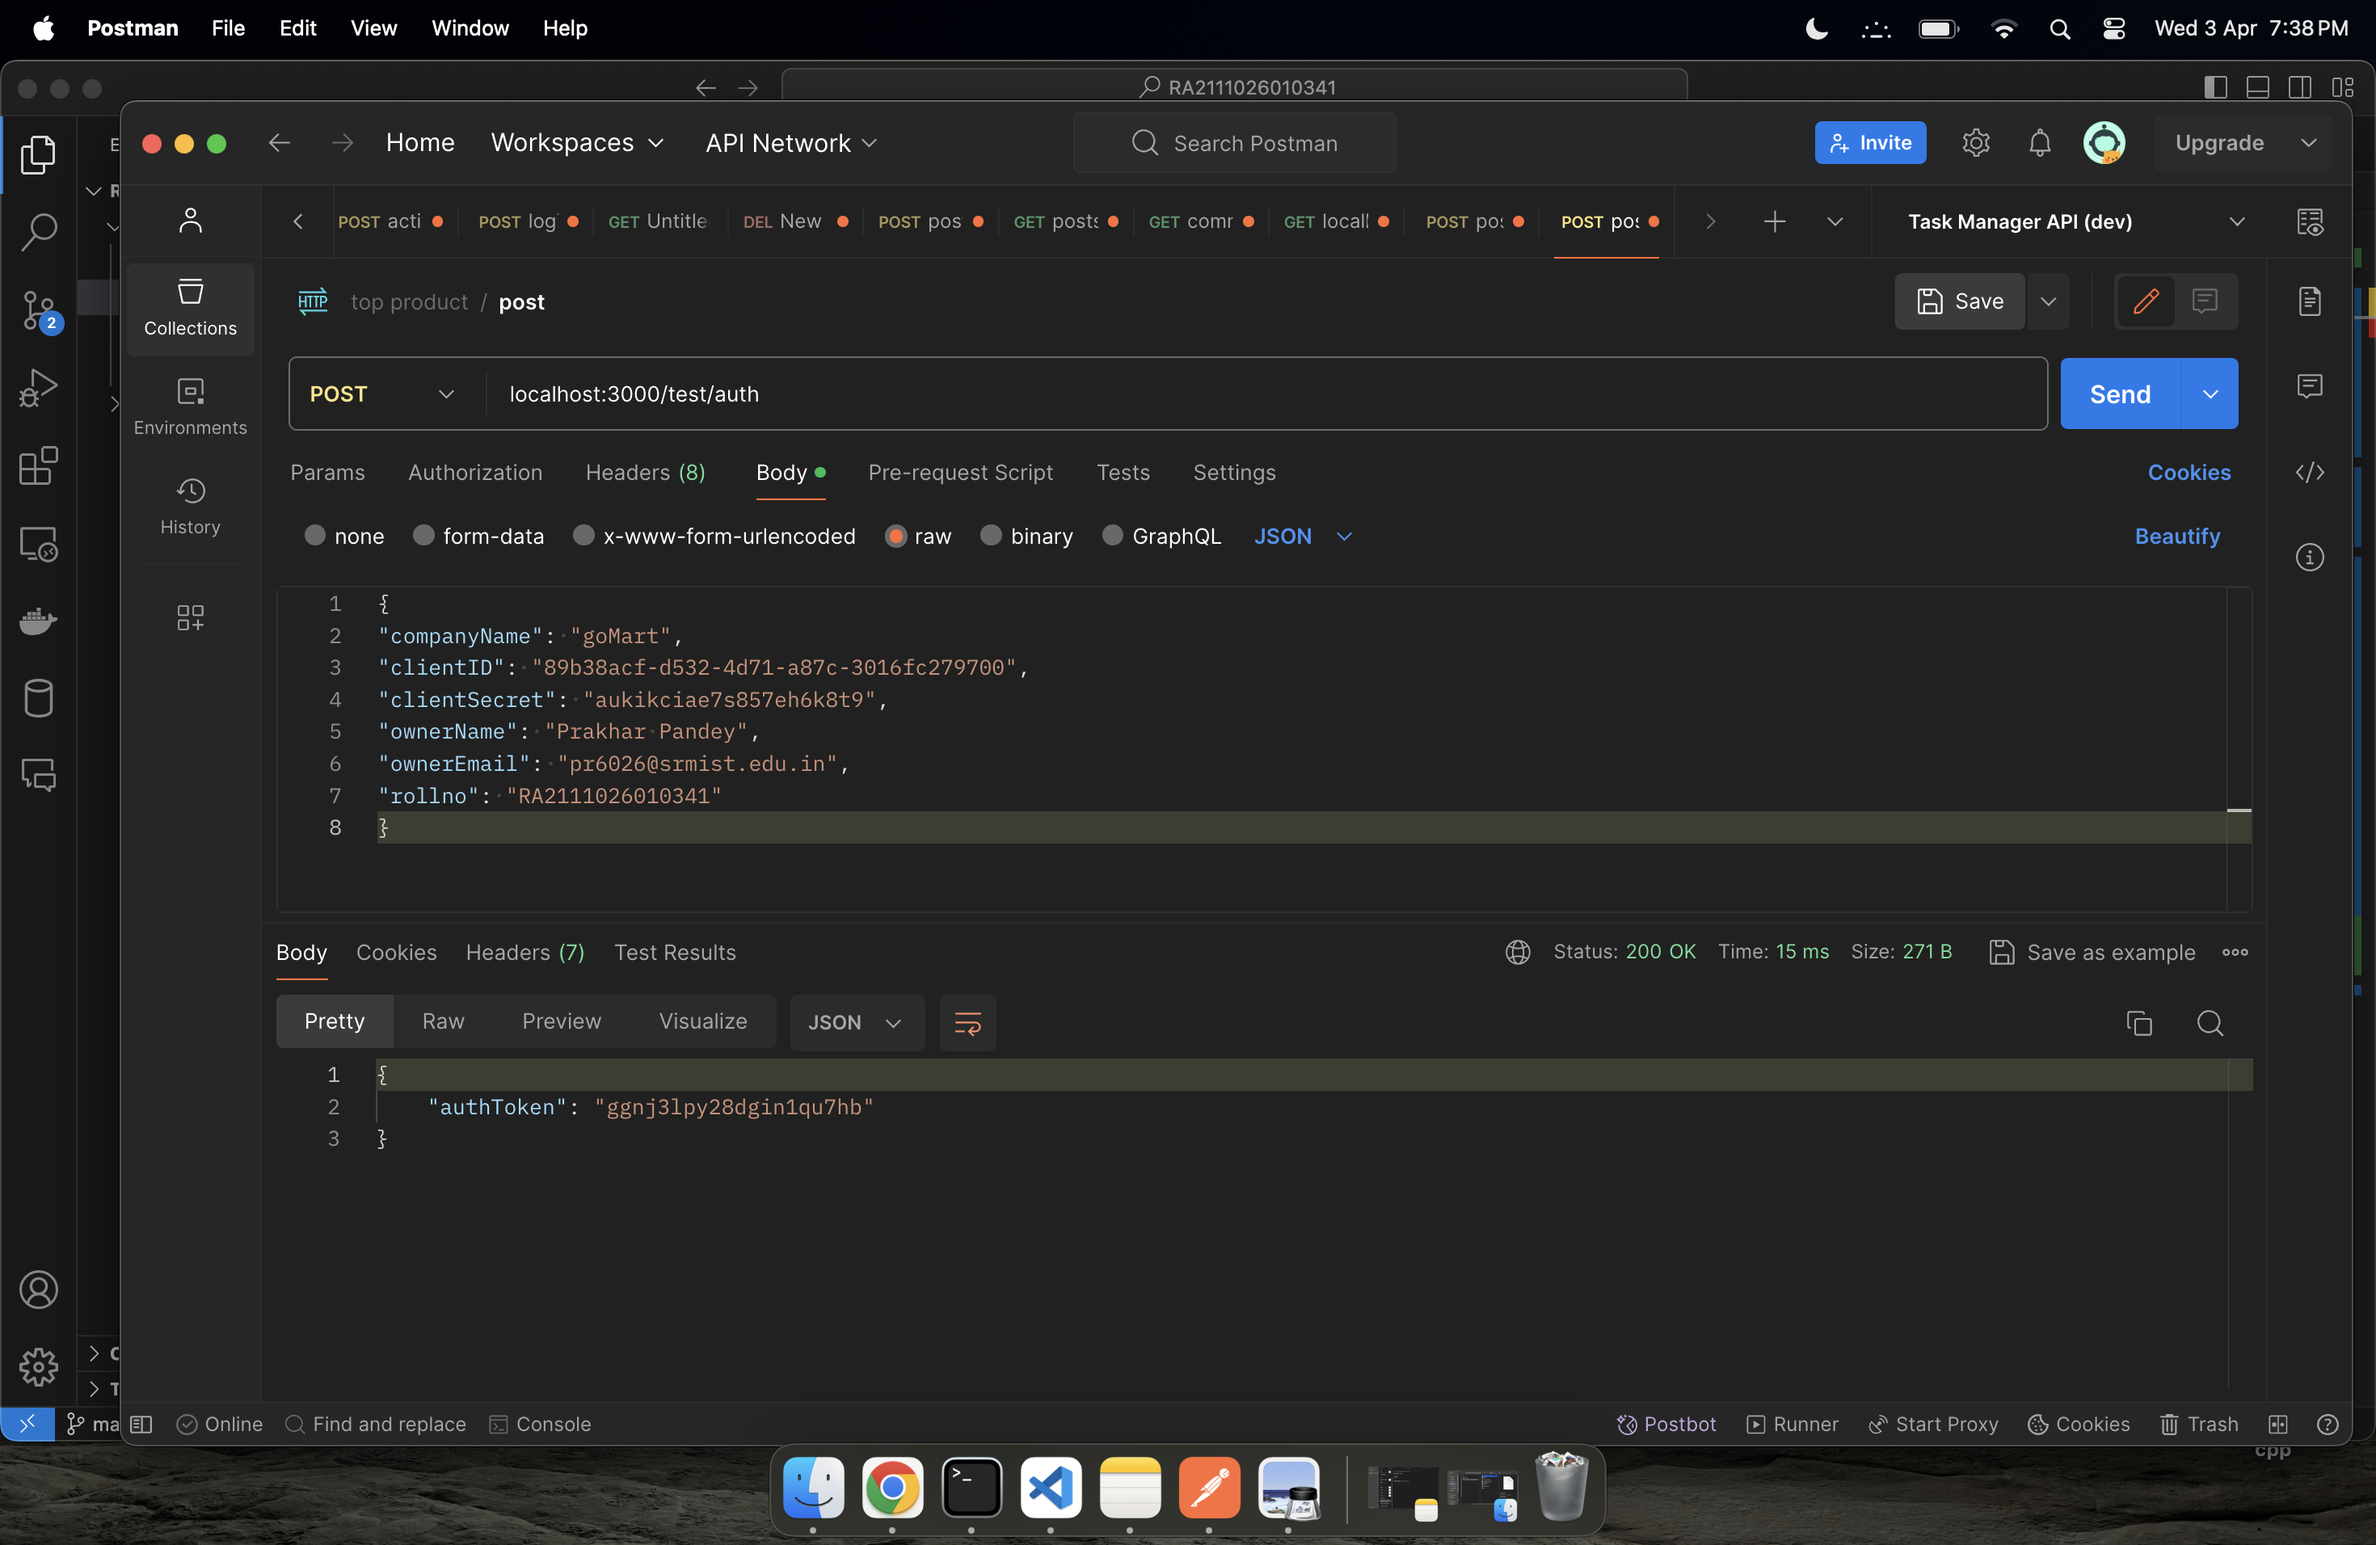
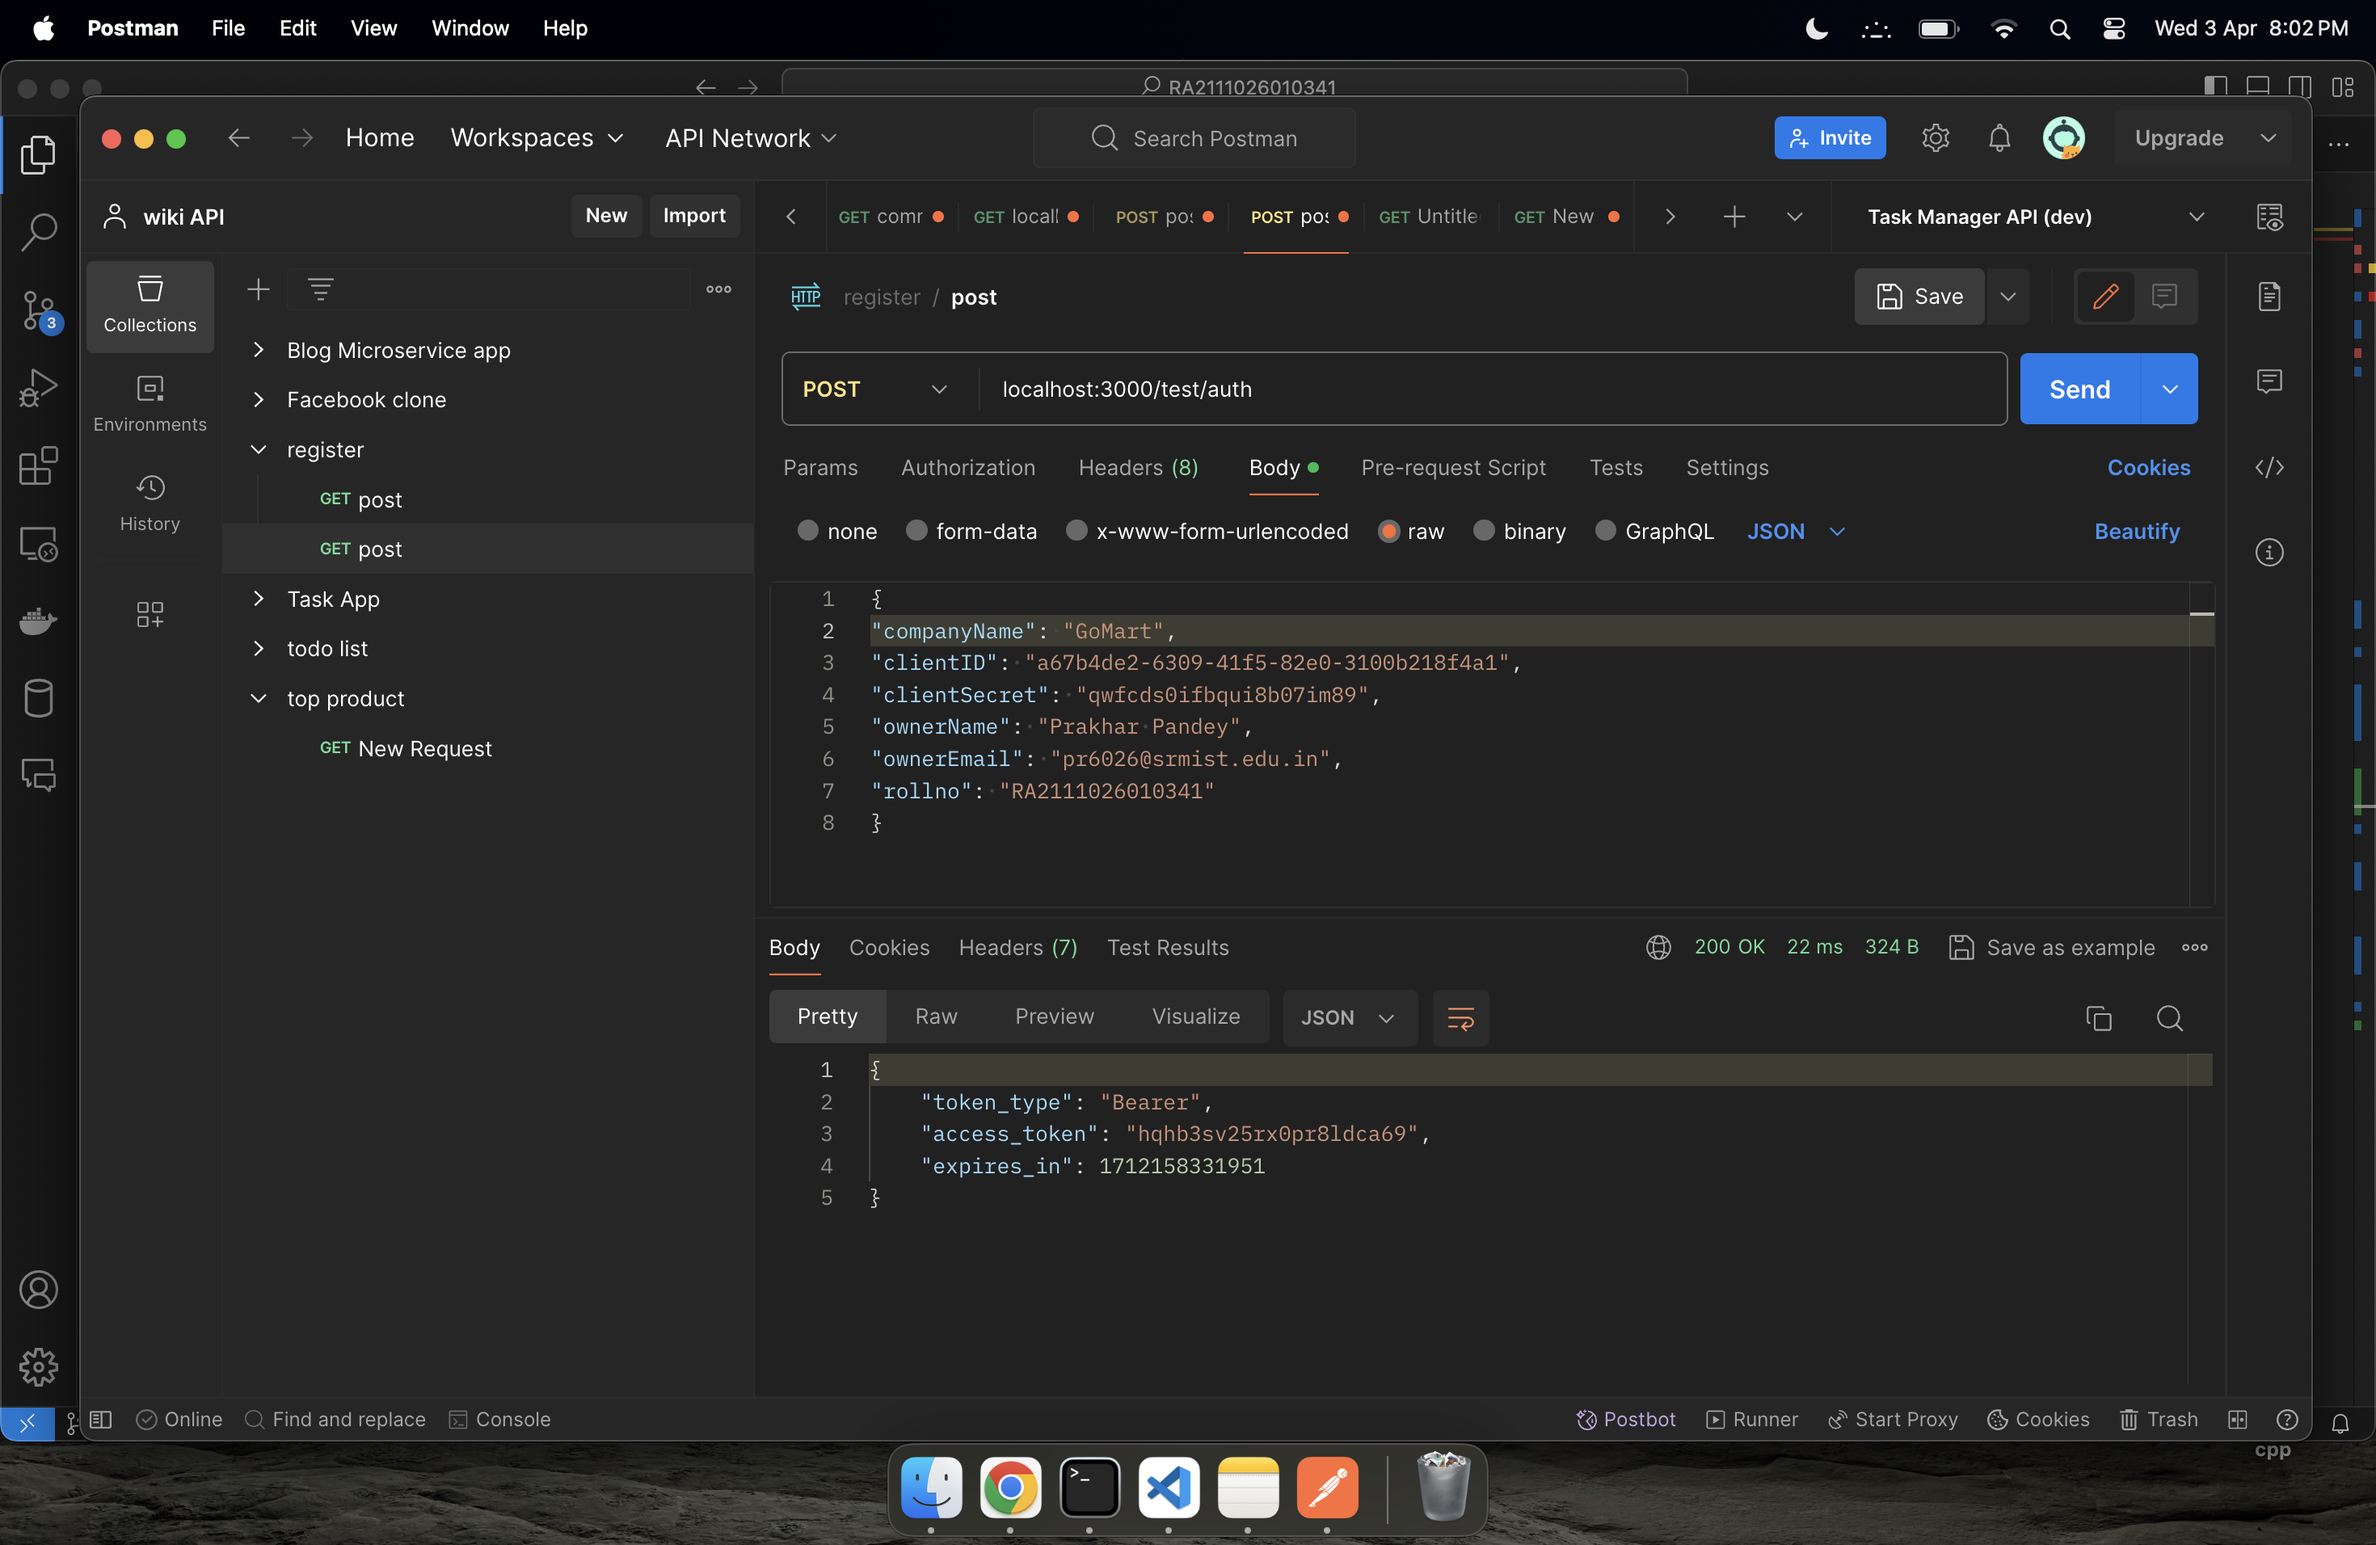
added autghentication in problem 1

diff --git a/top_product_http_microservice/api.js b/top_product_http_microservice/api.js
@@ -1,102 +1,63 @@
 const express = require('express');
-const axios = require('axios'); // For making HTTP requests
+const axios = require('axios');
 
 const app = express();
-const PORT = process.env.PORT || 3000; // Use environment variable for port
+const PORT = process.env.PORT || 3000;
 
-// In-memory cache for product data (replace with a proper caching solution)
-const productCache = {};
 
-async function getProductsFromCompany(company, category, params) {
-  const url = `http://20.244.56.144/test/companies/<span class="math-inline">\{company\}/categories/</span>{category}/products`;
-  const response = await axios.get(url, { params });
+app.get('/companies/:companyname/categories/:categoryname/products', async (req, res) => {
+  try {
+    const { companyname, categoryname } = req.params;
+    const { top, page, sort } = req.query;
+
+
+    if (!companyname || !categoryname) {
+      return res.status(400).json({ error: 'Company name and category name are required.' });
+    }
+
+    let queryParams = {
+      top,
+      page,
+      sort
+    };
+
+    Object.keys(queryParams).forEach(key => queryParams[key] === undefined && delete queryParams[key]);
+
+
+    const products = await getTopProducts(companyname, categoryname, queryParams);
+
+    res.status(200).json(products);
+  } catch (error) {
+    console.error('Error fetching top products:', error);
+    res.status(500).json({ error: 'Failed to fetch top products.' });
+  }
+});
+
+app.get('/companies/:companyname/categories/:categoryname/products/:productid', async (req, res) => {
+  try {
+    const { companyname, categoryname, productid } = req.params;
+
+
+    const product = await getProductDetails(companyname, categoryname, productid);
+
+    res.status(200).json(product);
+  } catch (error) {
+    console.error('Error fetching product details:', error);
+    res.status(500).json({ error: 'Failed to fetch product details.' });
+  }
+});
+
+
+async function getTopProducts(companyname, categoryname, queryParams) {
+  const response = await axios.get(`http://20.244.56.144/test/companies/${companyname}/categories/${categoryname}/products`, { params: queryParams });
   return response.data;
 }
 
-// Function to merge product data from all companies
-async function getProducts(category, top, page, sort, order, minPrice, maxPrice) {
-  const allProducts = [];
-  const companies = ["AMZ", "FLP", "SNP", "MYN", "AZO"];
-
-  for (const company of companies) {
-    const params = { top, minPrice, maxPrice };
-    if (sort) params.sort = sort;
-    if (order) params.order = order;
-    if (page) params.page = page;
-
-    const cacheKey = `<span class="math-inline">{company}-</span>{category}-${JSON.stringify(params)}`;
-    let products;
-
-    if (productCache[cacheKey]) {
-      products = productCache[cacheKey];
-    } else {
-      products = await getProductsFromCompany(company, category, params);
-      productCache[cacheKey] = products;
-    }
-
-    allProducts.push(...products);
-  }
-
-  return allProducts;
+async function getProductDetails(companyname, categoryname, productid) {
+  const response = await axios.get(`http://20.244.56.144/test/companies/${companyname}/categories/${categoryname}/products/${productid}`);
+  return response.data;
 }
 
-function generateProductId(product) {
-  const { company, category, ...rest } = product;
-  return `<span class="math-inline">\{company\}\-</span>{category}-${JSON.stringify(rest)}`;
-}
-function findProductById(productId) {
-  for (const product of Object.values(productCache)) {
-    if (generateProductId(product) === productId) {
-      return product;
-    }
-  }
-  return null;
-}
-
-app.get('/categories/:categoryname/products', async (req, res) => {
-  const { categoryname } = req.params;
-  const top = parseInt(req.query.top) || 10;
-  const page = parseInt(req.query.page) || 1;
-  const sort = req.query.sort;
-  const order = req.query.order;
-  const minPrice = req.query.minPrice;
-  const maxPrice = req.query.maxPrice;
-
-  try {
-    const products = await getProducts(categoryname, top, page, sort, order, minPrice, maxPrice);
-
-    if (top > 10) {
-      const startIndex = (page - 1) * top;
-      const endIndex = Math.min(startIndex + top, products.length);
-      const paginatedProducts = products.slice(startIndex, endIndex);
-
-      res.json({
-        products: paginatedProducts.map(product => ({ ...product, id: generateProductId(product) })),
-        pagination: {
-          page,
-          totalPages: Math.ceil(products.length / top),
-        },
-      });
-    } else {
-      res.json({ products: products.map(product => ({ ...product, id: generateProductId(product) })) });
-    }
-  } catch (error) {
-    console.error(error);
-    res.status(500).json({ message: 'Internal server error' });
-  }
+app.listen(PORT, () => {
+  console.log(`Server is running on port ${PORT}`);
 });
-
-// API endpoint for specific product details
-app.get('/categories/:categoryname/products/:productid', async (req, res) => {
-  const { categoryname, productid } = req.params;
-
-  const product = findProductById(productid);
-
-  if (product) {
-    res.json({ ...product, id: productid });
-  } else {
-    res.status(404).json({ message: 'Product not found' });
-  }
-});
-
-app.listen(PORT, () => console.log(`Server listening on port ${PORT}`));

diff --git a/register/app.js b/register/app.js
@@ -1,24 +1,21 @@
-const express = require('express');
-const bodyParser = require('body-parser');
+const express = require("express");
+const bodyParser = require("body-parser");
 
 const app = express();
 
-
 app.use(bodyParser.json());
-
 
 const registeredCompanies = {};
 
-app.post('/test/register', (req, res) => {
+app.post("/test/register", (req, res) => {
   const { companyName, ownerName, rollNo, ownerEmail, accessCode } = req.body;
 
-  if (accessCode !== 'bntKpm') {
-    return res.status(403).json({ error: 'Invalid access code' });
+  if (accessCode !== "bntKpm") {
+    return res.status(403).json({ error: "Invalid access code" });
   }
 
-
   if (registeredCompanies[rollNo]) {
-    return res.status(400).json({ error: 'Company already registered' });
+    return res.status(400).json({ error: "Company already registered" });
   }
 
   const clientID = generateUUID();
@@ -43,38 +40,48 @@ app.post('/test/register', (req, res) => {
   });
 });
 
-app.post('/test/auth', (req, res) => {
-
-  const { companyName, clientID, clientSecret, ownerName, ownerEmail, rollno } = req.body;
+app.post("/test/auth", (req, res) => {
+  const { companyName, clientID, clientSecret, ownerName, ownerEmail, rollno } =
+    req.body;
 
   if (!registeredCompanies[rollno]) {
-    return res.status(404).json({ error: 'Company not registered' });
+    return res.status(404).json({ error: "Company not registered" });
   }
 
   const registeredCompany = registeredCompanies[rollno];
-  if (registeredCompany.companyName !== companyName || registeredCompany.clientID !== clientID || registeredCompany.clientSecret !== clientSecret) {
-    return res.status(401).json({ error: 'Unauthorized' });
+  if (
+    registeredCompany.companyName !== companyName ||
+    registeredCompany.clientID !== clientID ||
+    registeredCompany.clientSecret !== clientSecret
+  ) {
+    return res.status(401).json({ error: "Unauthorized" });
   }
 
   const authToken = generateRandomString();
+  const response = {
+    token_type: "Bearer",
+    access_token: authToken,
+    expires_in: Date.now() + 60 * 60 * 1000, // Token expires in 1 hour
+  };
 
-  res.json({
-    authToken,
-  });
+  res.status(200).json(response);
 });
 
 function generateUUID() {
-  return 'xxxxxxxx-xxxx-4xxx-yxxx-xxxxxxxxxxxx'.replace(/[xy]/g, function(c) {
-    var r = Math.random() * 16 | 0,
-        v = c == 'x' ? r : (r & 0x3 | 0x8);
+  return "xxxxxxxx-xxxx-4xxx-yxxx-xxxxxxxxxxxx".replace(/[xy]/g, function (c) {
+    var r = (Math.random() * 16) | 0,
+      v = c == "x" ? r : (r & 0x3) | 0x8;
     return v.toString(16);
   });
 }
 
 function generateRandomString() {
-  return Math.random().toString(36).substring(2, 15) + Math.random().toString(36).substring(2, 15);
+  return (
+    Math.random().toString(36).substring(2, 15) +
+    Math.random().toString(36).substring(2, 15)
+  );
 }
 
 app.listen(3000, () => {
-  console.log('Server is running on port 3000');
+  console.log("Server is running on port 3000");
 });
